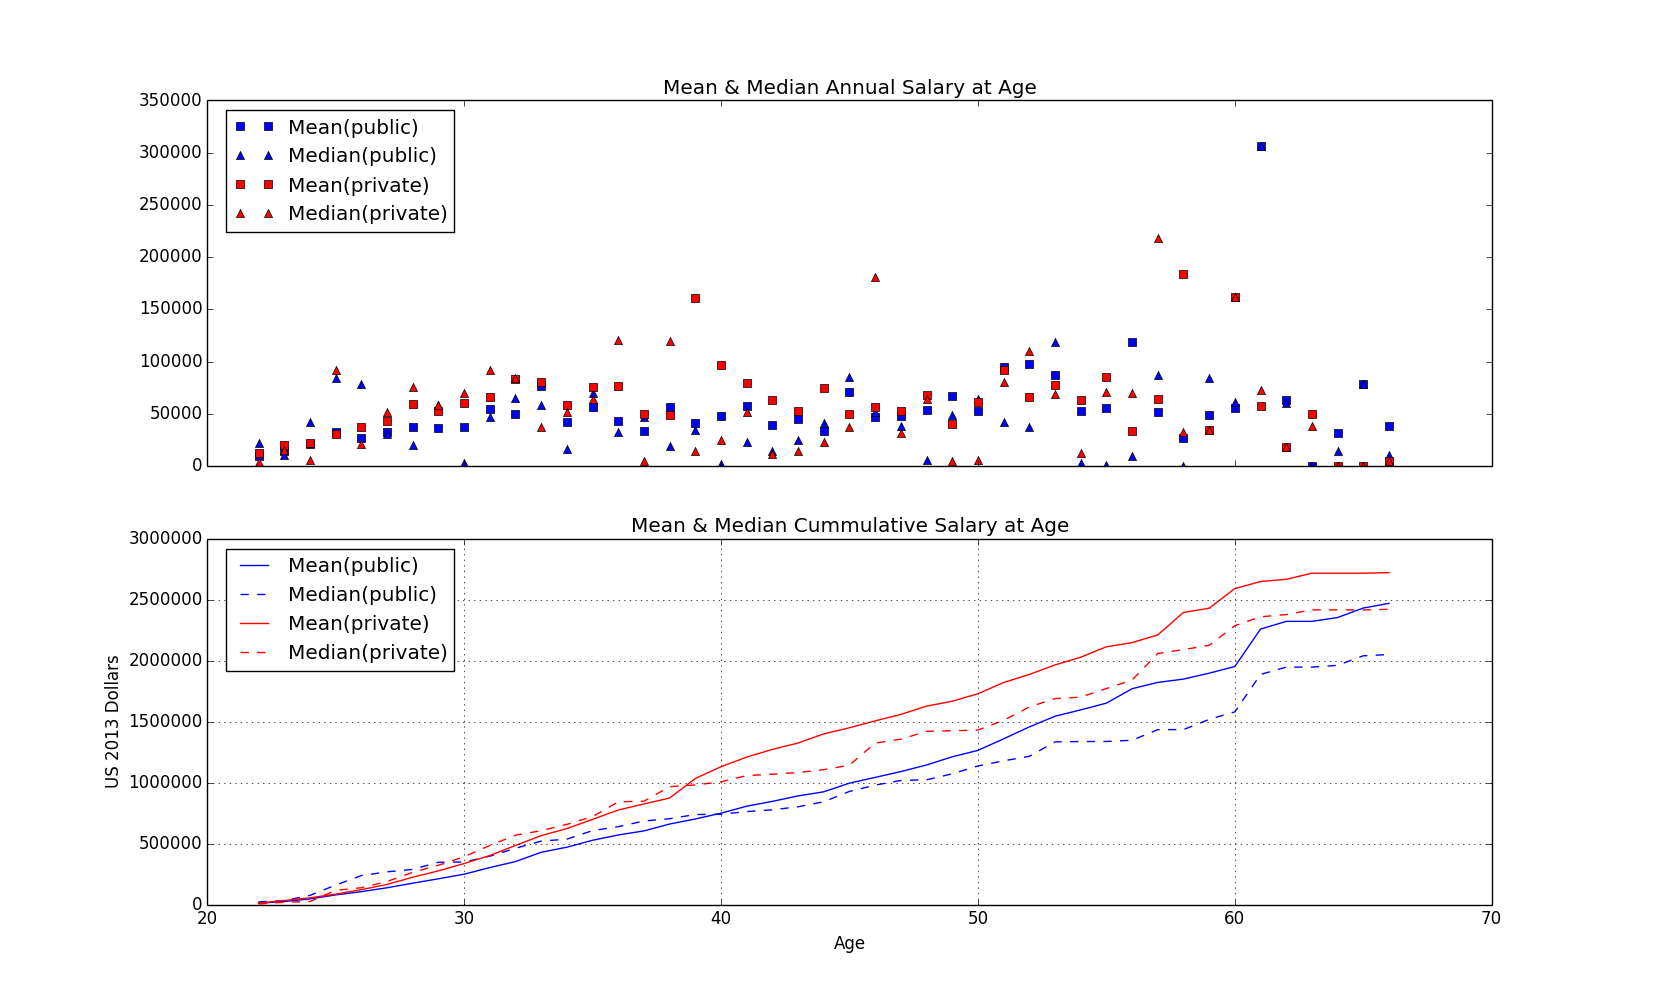
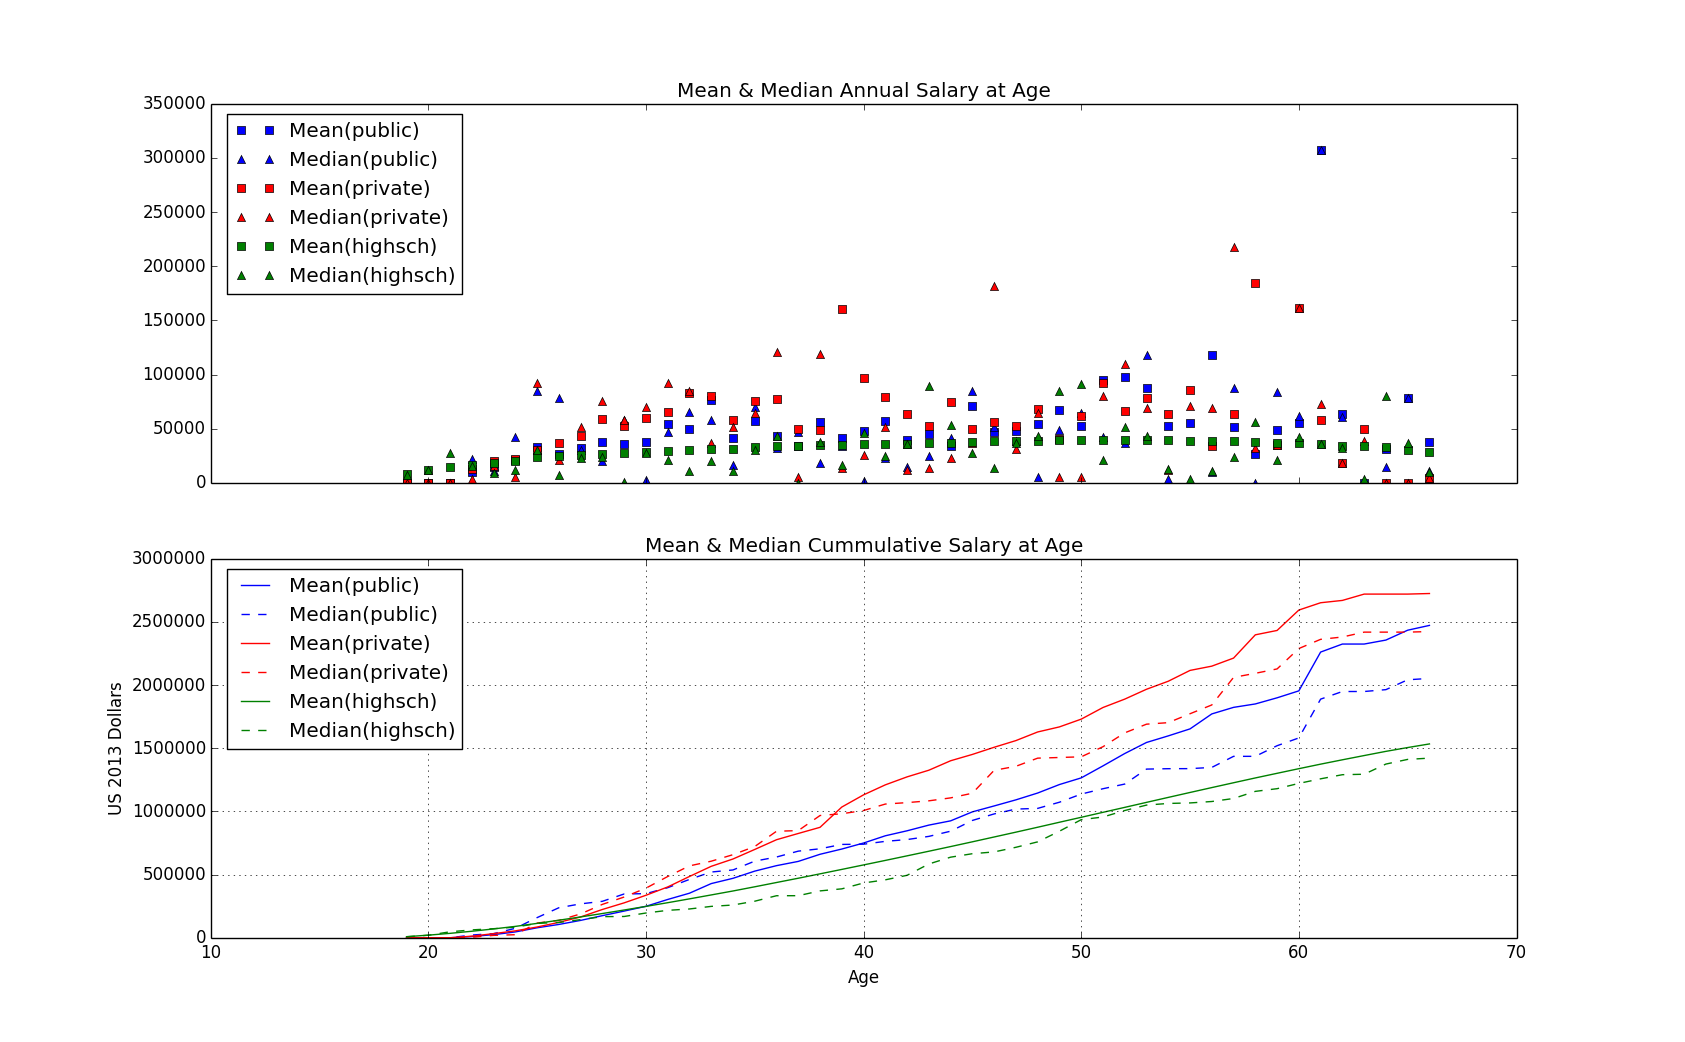
bugfix

diff --git a/w_analysis.py b/w_analysis.py
@@ -23,7 +23,7 @@ def weighted_mean(data,weight):
 	else:
 		return np.average(data,weights=weight)
 def w_med_sd(data,weight):
-	if len(data)==1:
+	if len(data)<2:
 		return 0
 	indices = np.argsort(data)
 	s_data = np.array(data)[indices]
@@ -31,37 +31,47 @@ def w_med_sd(data,weight):
 	c_weights = np.cumsum(s_weights)
 	base = c_weights[len(c_weights)-1]
 	df = 2.0 #design factor
-	se_50 = df * math.sqrt( (95.to_f/(5*base)) * math.pow(50,2))
+	se_50 = df * math.sqrt( (95/float(5*base)) * math.pow(50,2))
+	if se_50>48.0:
+		se_50=48.0
 	p_lower = (50-se_50)
 	p_upper = (50+se_50)
 	i_lower = None
 	i_upper = None
 	for i in range(len(c_weights)):
-		if i_lower == None and p_lower <= (c_weights[i].to_f/base):
+		if i_lower == None and p_lower <= (c_weights[i]/float(base))*100:
 			i_lower=i
-		if p_upper <= (c_weights[i].to_f/base)
+		if p_upper <= (c_weights[i]/float(base))*100:
 			i_upper=i
 			break
 	lower_bound=0
-	upper_boun=0
+	upper_bound=0
 	if i_lower==i_upper:
-		a1 = s_data[i_lower]
-		a2 = s_data[i_lower+1]
-		c1 = (c_weights[i_lower].to_f/base) * 100
-		c2 = (c_weights[i_lower+1].to_f/base) * 100
-		lower_bound= ((p_lower-c1)/(c2-c1))*(a2-a1)+a1
-		upper_bound= ((p_upper-c1)/(c2-c1))*(a2-a1)+a1
+		try:
+			a1 = s_data[i_lower]
+			a2 = s_data[i_lower+1]
+			c1 = (c_weights[i_lower]/float(base)) * 100
+			c2 = (c_weights[i_lower+1]/float(base)) * 100
+			lower_bound= ((p_lower-c1)/(c2-c1))*(a2-a1)+a1
+			upper_bound= ((p_upper-c1)/(c2-c1))*(a2-a1)+a1
+		except IndexError:
+			lower_bound=s_data[i_lower]
+			upper_bound=s_data[i_lower]
 	else:
-		a1 = s_data[i_lower]
-		a2 = s_data[i_lower+1]
-		b1 = s_data[i_upper]
-		b2 = s_data[i_upper+1]
-		c1 = (c_weights[i_lower].to_f/base) * 100
-		c2 = (c_weights[i_lower+1].to_f/base) * 100
-		d1 = (c_weights[i_upper].to_f/base) * 100
-		d2 = (c_weights[i_upper+1].to_f/base) * 100
-		lower_bound= ((p_lower-c1)/(c2-c1))*(a2-a1)+a1
-		upper_bound= ((p_upper-d1)/(d2-d1))*(b2-b1)+b1
+		try:
+			a1 = s_data[i_lower]
+			a2 = s_data[i_lower+1]
+			b1 = s_data[i_upper]
+			b2 = s_data[i_upper+1]
+			c1 = (c_weights[i_lower]/float(base)) * 100
+			c2 = (c_weights[i_lower+1]/float(base)) * 100
+			d1 = (c_weights[i_upper]/float(base)) * 100
+			d2 = (c_weights[i_upper+1]/float(base)) * 100
+			lower_bound= ((p_lower-c1)/(c2-c1))*(a2-a1)+a1
+			upper_bound= ((p_upper-d1)/(d2-d1))*(b2-b1)+b1
+		except IndexError:
+			lower_bound=s_data[i_lower]
+			upper_bound=s_data[i_lower]
 	return 0.5*(upper_bound-lower_bound)
 
 
@@ -72,6 +82,9 @@ non = []
 for i in range(45):
 	public.append([i,[],[]])
 	private.append([i,[],[]])
+
+for i in range(48):
+	non.append([i,[],[]])
 
 with open('condensedacs.csv') as csvfile:
 	reader = csv.DictReader(csvfile)
@@ -90,9 +103,13 @@ with open('condensedacs.csv') as csvfile:
 with open('condensedacs2.csv') as csvfile:
 	reader = csv.DictReader(csvfile)
 	for row in reader:
-		age = int(row['AGEP'])
-		non[age-19][1].append(float(row['WAGP'])*float(row['ADJINC'])*0.000001)
-		non[age-19][2].append(int(row['PWGTP']))
+		try:
+			age = int(row['AGEP'])
+			if age>=19 and age<=66:
+				non[age-19][1].append(float(row['WAGP'])*float(row['ADJINC'])*0.000001)
+				non[age-19][2].append(int(row['PWGTP']))
+		except ValueError:
+			print row
 
 
 
@@ -111,7 +128,7 @@ pri_life_median = 0
 pub_life_median = 0
 pri_life_mean = 0
 pub_life_mean = 0
-#public[age-22, [all data values],[data weights],len,mean,median]
+#public[age-22, [all data values],[data weights],len,mean,median,sd]
 for i in range(45):
 	arr_pub = np.array(public[i][1])
 	arr_pub_w = np.array(public[i][2])
@@ -120,10 +137,12 @@ for i in range(45):
 	public[i].append(np.sum(arr_pub_w))
 	public[i].append(weighted_mean(arr_pub,arr_pub_w))
 	public[i].append(weighted_median(arr_pub,arr_pub_w))
+	public[i].append(w_med_sd(arr_pub,arr_pub_w))
 	print "\n PUB:At age %d mean is %f median is %f with %d weighted points" % (i+22, public[i][4], public[i][5], public[i][3]) 
 	private[i].append(np.sum(arr_pri_w))
 	private[i].append(weighted_mean(arr_pri,arr_pri_w))
 	private[i].append(weighted_median(arr_pri,arr_pri_w))
+	private[i].append(w_med_sd(arr_pri,arr_pri_w))
 	print "\n PRI:At age %d mean is %f median is %f with %d weighted points" % (i+22, private[i][4], private[i][5], private[i][3]) 
 	pri_total_dat += private[i][3]
 	pub_total_dat += public[i][3]
@@ -135,14 +154,15 @@ for i in range(45):
 non_total_dat = 0
 non_life_median = 0
 non_life_mean = 0
-#public[age-22, [all data values],[data weights],len,mean,median]
+#public[age-22, [all data values],[data weights],len,mean,median,sd]
 for i in range(48):
 	arr_non = np.array(non[i][1])
 	arr_non_w = np.array(non[i][2])
 	non[i].append(np.sum(arr_non_w))
-	non[i].append(weighted_mean(arr_pub,arr_non_w))
-	non[i].append(weighted_median(arr_pub,arr_non_w))
-	print "\n non:At age %d mean is %f median is %f with %d weighted points" % (i+22, public[i][4], public[i][5], public[i][3]) 
+	non[i].append(weighted_mean(arr_non,arr_non_w))
+	non[i].append(weighted_median(arr_non,arr_non_w))
+	non[i].append(w_med_sd(arr_non,arr_non_w))
+	print "\n highsch:At age %d mean is %f median is %f with %d weighted points" % (i+19, non[i][4], non[i][5], non[i][3]) 
 	non_total_dat += non[i][3]
 	if non[i][4]>0 : non_life_mean += non[i][4]
 	if non[i][5]>0 : non_life_median += non[i][5]
@@ -174,27 +194,27 @@ for i in r:
 	print "\n At %f interest rate: highsch NPV income -> mean = %f median = %f" % (i-1, npv_non_mean, npv_non_median)
 
 
-pub_mean = [row[4] for row in public]
-pri_mean = [row[4] for row in private]
-pub_med = [row[5] for row in public]
-pri_med = [row[5] for row in private]
+pub_mean = np.append(np.array([0,0,0]),[row[4] for row in public])
+pri_mean = np.append(np.array([0,0,0]),[row[4] for row in private])
+pub_med = np.append(np.array([0,0,0]),[row[5] for row in public])
+pri_med = np.append(np.array([0,0,0]),[row[5] for row in private])
 non_mean = [row[4] for row in non]
 non_med = [row[5] for row in non]
 f, axarr= plt.subplots(2,sharex=True)
-axarr[0].plot(np.arange(22,67),pub_mean,'bs',label='Mean(public)')
-axarr[0].plot(np.arange(22,67),pub_med,'b^',label='Median(public)')
-axarr[0].plot(np.arange(22,67),pri_mean,'rs',label='Mean(private)')
-axarr[0].plot(np.arange(22,67),pri_med,'r^',label='Median(private)')
+axarr[0].plot(np.arange(19,67),pub_mean,'bs',label='Mean(public)')
+axarr[0].plot(np.arange(19,67),pub_med,'b^',label='Median(public)')
+axarr[0].plot(np.arange(19,67),pri_mean,'rs',label='Mean(private)')
+axarr[0].plot(np.arange(19,67),pri_med,'r^',label='Median(private)')
 axarr[0].plot(np.arange(19,67),non_mean,'gs',label='Mean(highsch)')
 axarr[0].plot(np.arange(19,67),non_med,'g^',label='Median(highsch)')
 axarr[0].set_title('Mean & Median Annual Salary at Age')
 axarr[0].legend(bbox_to_anchor=(0.2, 1.0))
-axarr[1].plot(np.arange(22,67),np.cumsum(pub_mean),'b-',label='Mean(public)')
-axarr[1].plot(np.arange(22,67),np.cumsum(pub_med),'b--',label='Median(public)')
-axarr[1].plot(np.arange(22,67),np.cumsum(pri_mean),'r-',label='Mean(private)')
-axarr[1].plot(np.arange(22,67),np.cumsum(pri_med),'r--',label='Median(private)')
-axarr[1].plot(np.arange(19,67),np.cumsum(pri_mean),'g-',label='Mean(highsch)')
-axarr[1].plot(np.arange(19,67),np.cumsum(pri_med),'g--',label='Median(highsch)')
+axarr[1].plot(np.arange(19,67),np.cumsum(pub_mean),'b-',label='Mean(public)')
+axarr[1].plot(np.arange(19,67),np.cumsum(pub_med),'b--',label='Median(public)')
+axarr[1].plot(np.arange(19,67),np.cumsum(pri_mean),'r-',label='Mean(private)')
+axarr[1].plot(np.arange(19,67),np.cumsum(pri_med),'r--',label='Median(private)')
+axarr[1].plot(np.arange(19,67),np.cumsum(non_mean),'g-',label='Mean(highsch)')
+axarr[1].plot(np.arange(19,67),np.cumsum(non_med),'g--',label='Median(highsch)')
 axarr[1].set_title('Mean & Median Cummulative Salary at Age')
 
 axarr[1].legend(bbox_to_anchor=(0.2, 1.0))
@@ -203,3 +223,6 @@ plt.xlabel('Age')
 plt.grid(True)
 
 plt.show()
+
+
+filenames = ['pub.csv','private.csv','high.csv']
